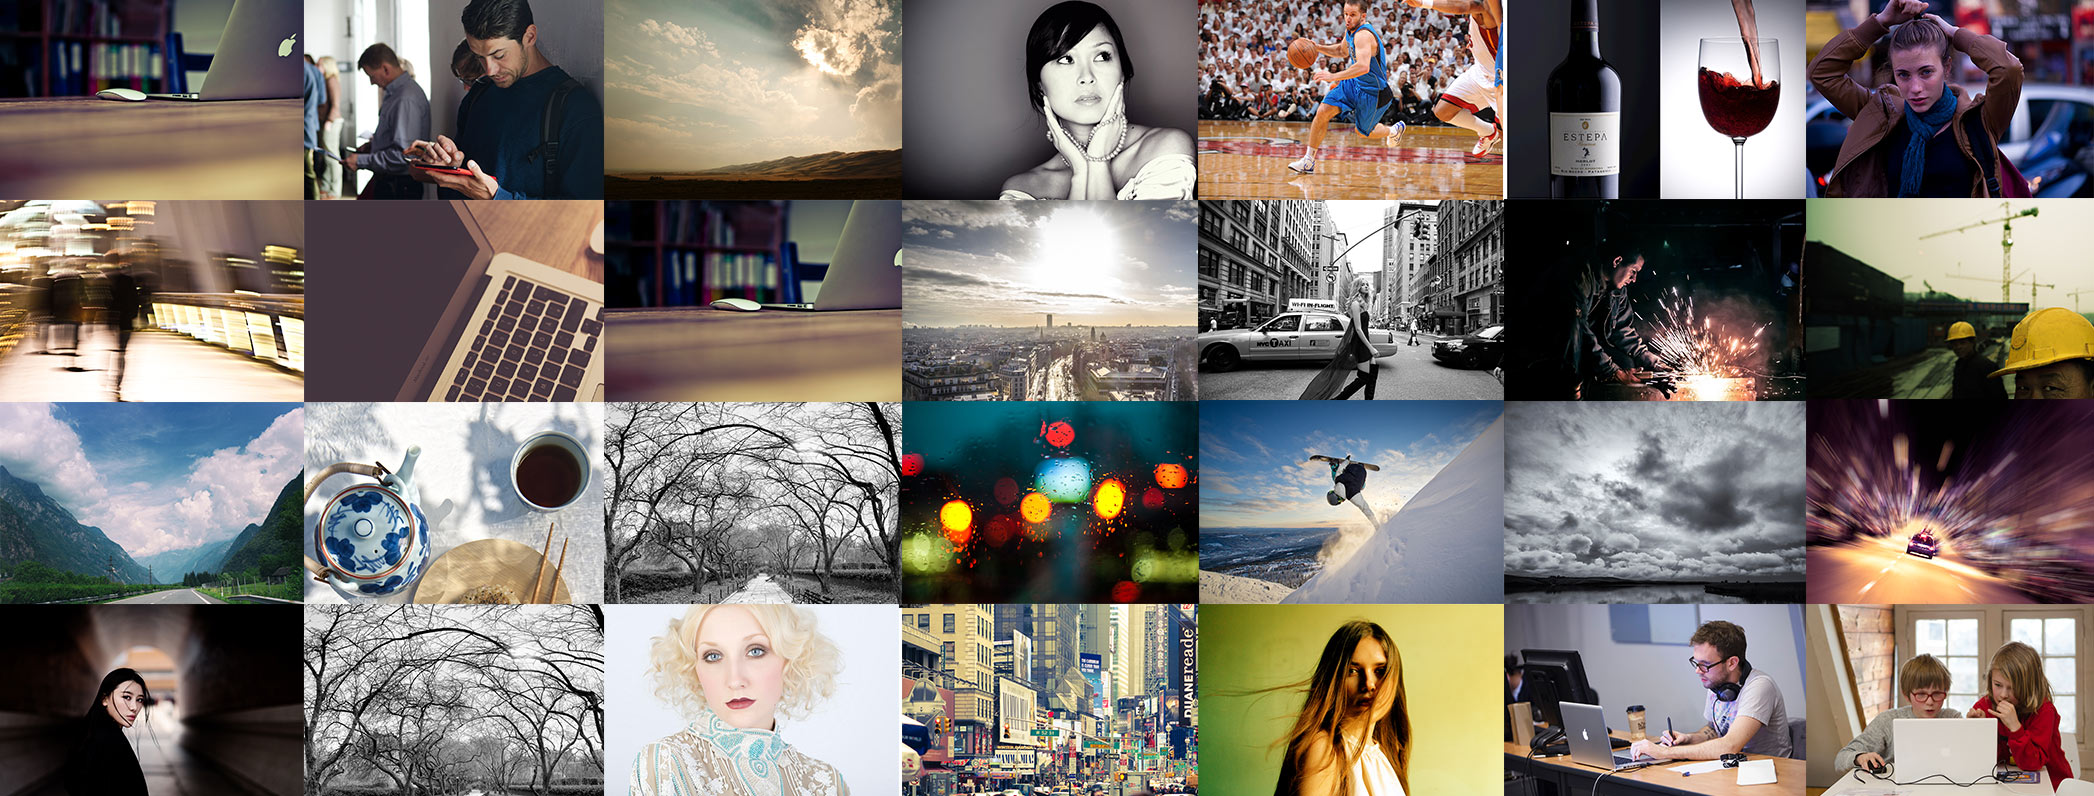
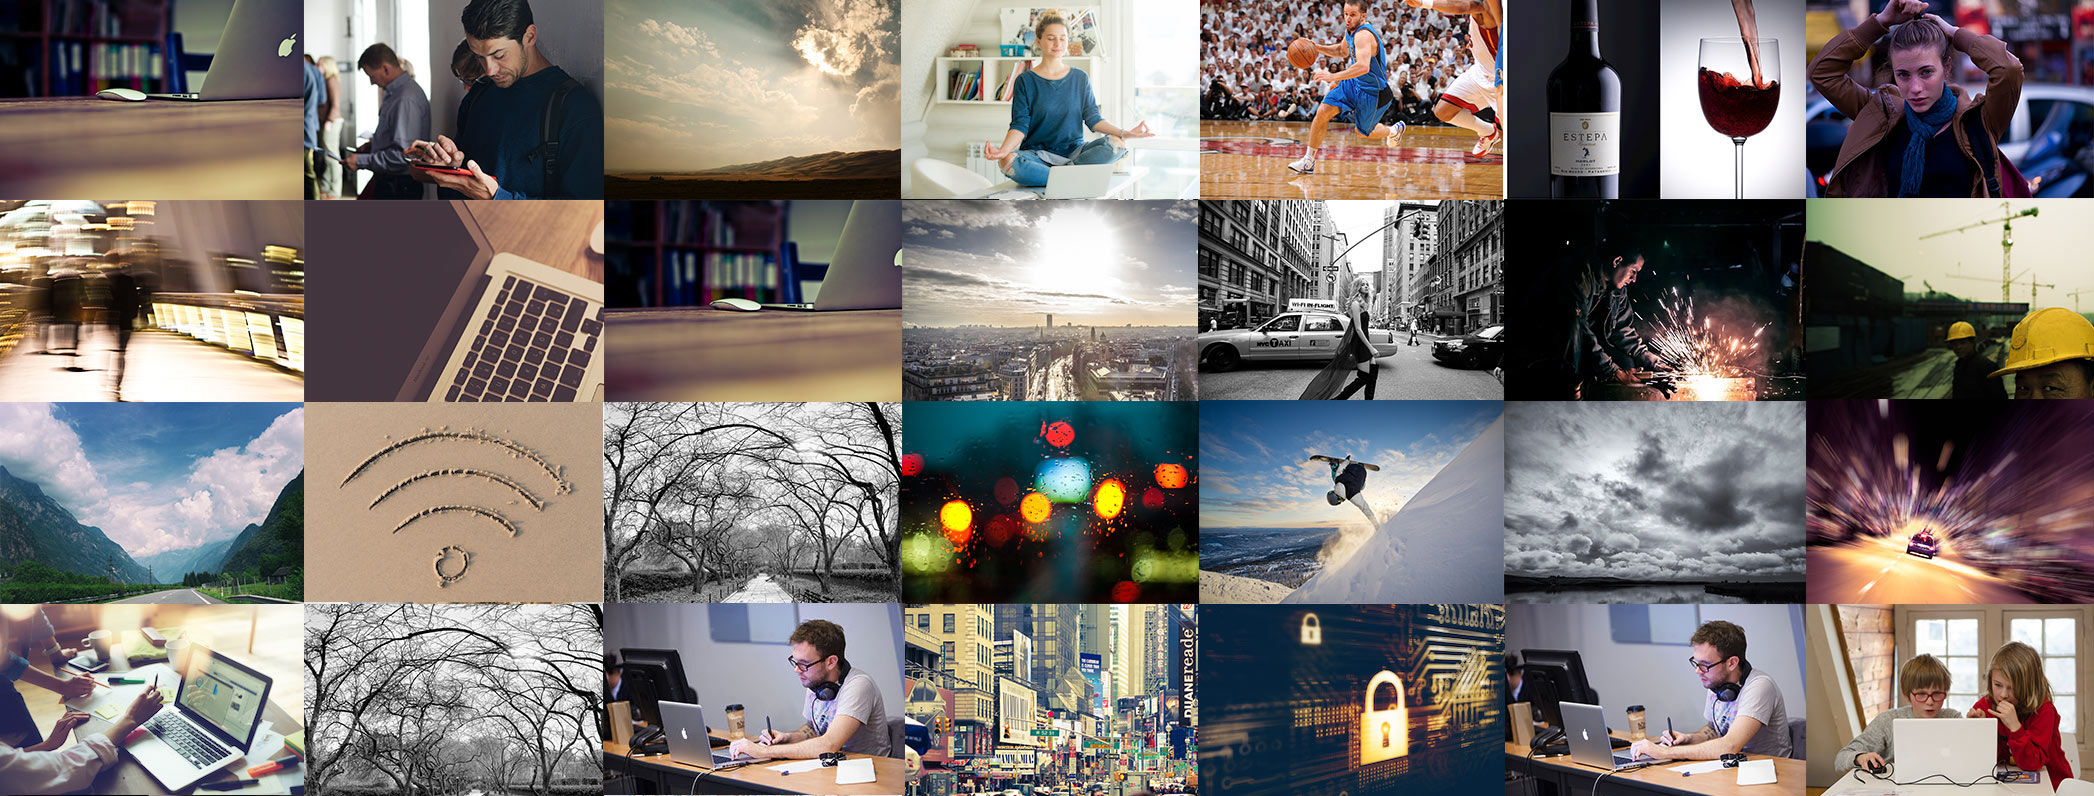
Improve content

Changed region(s): [[0.0, 0.4824, 0.4346, 1.0], [0.5587, 0.7538, 0.745, 1.0], [0.4035, 0.0, 0.5898, 0.2714]]

diff --git a/themes/hugo-universal-theme/static/css/custom.css b/themes/hugo-universal-theme/static/css/custom.css
@@ -8,3 +8,31 @@
 .box-simple {
   min-height: 230px;
 }
+
+table {
+  border: 2px solid #FFFFFF;
+  width: 100%;
+  text-align: left;
+  border-collapse: collapse;
+}
+table td, table th {
+  border: 1px solid #FFFFFF;
+  padding: 3px 4px;
+}
+table tr:nth-child(even) {
+  background: #EBEBEB;
+}
+table thead {
+  background: #FFFFFF;
+  border-bottom: 4px solid #333333;
+}
+table thead th {
+  font-weight: bold;
+  color: #333333;
+  text-align: left;
+}
+table tfoot {
+  font-weight: bold;
+  color: #333333;
+  border-top: 4px solid #333333;
+}

diff --git a/content/faq.es.md b/content/faq.es.md
@@ -1,43 +1,49 @@
 +++
-title = "FAQ"
-description = "Frequently asked questions"
+title = "Preguntas Frequentes"
+description = "Preguntas Frequentes"
 keywords = ["FAQ","How do I","questions","what if"]
 +++
 
-Pellentesque habitant morbi tristique senectus et netus et malesuada fames ac turpis egestas. Vestibulum tortor quam, feugiat vitae, ultricies eget, tempor sit amet, ante. Donec eu libero sit amet quam egestas semper. Aenean ultricies mi vitae est. Mauris placerat eleifend leo.
+## 0. ¿En cuales areas de Costa Rica ofrecen sus servicios?
 
-## 1. WHAT TO DO IF I HAVE STILL NOT RECEIVED THE ORDER?
+Actualmente ofrecemos nuestros servicios a domicilio dentro del gran area metropolitana. Contactenos tiene si requiere los servicios en otras areas del país.
 
-Pellentesque habitant morbi tristique senectus et netus et malesuada fames ac turpis egestas. Vestibulum tortor quam, feugiat vitae, ultricies eget, tempor sit amet, ante. Donec eu libero sit amet quam egestas semper. Aenean ultricies mi vitae est. Mauris placerat eleifend leo.
+## 1. ¿Como solicito una visita a domicilio?
 
-* Lorem ipsum dolor sit amet, consectetuer adipiscing elit.
-* Aliquam tincidunt mauris eu risus.
-* Vestibulum auctor dapibus neque.
+[Contactenos](/contact/) para concertar una cita. En base a la información que nos brinde, valoraremos el tiempo requerido para
+la visita, y le daremos una cotización de los costos. Una vez que su cita sea calendarizada, le mandaremos una confirmación por correo electrónico.
 
-## 2. WHAT ARE THE POSTAL RATES?
+## 2. Yo trabajo todo el día, pero me gustaria estar allí cuando realizen un diagnostico u instalación ¿Pueden visitarme fuera de horas de oficina?
 
-Anim pariatur cliche reprehenderit, enim eiusmod high life accusamus terry richardson ad squid. 3 wolf moon officia aute, non cupidatat skateboard dolor brunch. Food truck quinoa nesciunt laborum eiusmod. Brunch 3 wolf moon tempor, sunt aliqua put a bird on it squid single-origin coffee nulla assumenda shoreditch et. Nihil anim keffiyeh helvetica, craft beer labore wes anderson cred nesciunt sapiente ea proident. Ad vegan excepteur butcher vice lomo. Leggings occaecat craft beer farm-to-table, raw denim aesthetic synth nesciunt you probably haven't heard of them accusamus labore sustainable VHS.
+Si! Nosotros podemos concertar citas en hora de la noche, o fines de semana. De hecho es nuestra preferencia que el cliente se
+encuentre en la casa, para proveerle la explicación y asesoria adecuada.
 
-## 3. DO YOU SEND OVERSEAS?
+## 3. ¿Cuales son sus tarifas?
 
-Anim pariatur cliche reprehenderit, enim eiusmod high life accusamus terry richardson ad squid. 3 wolf moon officia aute, non cupidatat skateboard dolor brunch. Food truck quinoa nesciunt laborum eiusmod. Brunch 3 wolf moon tempor, sunt aliqua put a bird on it squid single-origin coffee nulla assumenda shoreditch et. Nihil anim keffiyeh helvetica, craft beer labore wes anderson cred nesciunt sapiente ea proident. Ad vegan excepteur butcher vice lomo. Leggings occaecat craft beer farm-to-table, raw denim aesthetic synth nesciunt you probably haven't heard of them accusamus labore sustainable VHS.
+Las tarifas actuales son:
 
-## 4. WHY ARE YOU MORE EXPENSIVE THAN OTHERS?
+| Servicio                                                | Tarifa (USD) | Observaciones       |
+| ------------------------------------------------------- |:------------:| ------------------- |
+| Visita de diagnóstico (area metropolitana, 30 minutos)  |          $30 | No se cobra si se realiza servicio de mantenimiento en la misma visita  |
+| Mantenimiento o instalación de red (menos de 1 hora)    |          $70 |  |
+| Mantenimiento o instalación de red (hora extra por encima de 1h)  |         $50 |  |
 
-Pellentesque habitant morbi tristique senectus et netus et malesuada fames ac turpis egestas. Vestibulum tortor quam, feugiat vitae, ultricies eget, tempor sit amet, ante. Donec eu libero sit amet quam egestas semper. Aenean ultricies mi vitae est. Mauris placerat eleifend leo.
+<br>
 
-* Lorem ipsum dolor sit amet, consectetuer adipiscing elit.
-* Aliquam tincidunt mauris eu risus.
-* Vestibulum auctor dapibus neque.
+Antes de realizar cualquier tarea de mantenimiento o instalación se brindará el
+precio por el mismo, basado en la tabla anterior, y ese será el costo final aun si toma más tiempo del anticipado.
 
-## 5. ANOTHER IMPORTANT QUESTION
+## 4. ¿Ustedes venden equipo de redes?
 
-Pellentesque habitant morbi tristique senectus et netus et malesuada fames ac turpis egestas. Vestibulum tortor quam, feugiat vitae, ultricies eget, tempor sit amet, ante. Donec eu libero sit amet quam egestas semper. Aenean ultricies mi vitae est. Mauris placerat eleifend leo.
+Nosotros vendemos algunos equipos de redes para hogar especializados que no se consiguen en Costa Rica, por
+ejemplo soluciones WiFI de mesh. Para cualquier otro equipo requerido lo asesoraremos para conseguir
+el equipo adecuado en un distribuidor local.
 
-* Lorem ipsum dolor sit amet, consectetuer adipiscing elit.
-* Aliquam tincidunt mauris eu risus.
-* Vestibulum auctor dapibus neque.
+## 5. ¿Ustedes realizan cableado estructurado para casas?
+
+No ofrecemos el servicio de cableado estructurado, pero contamos con una red de contactos a la
+cual podemos referirlo para este tipo de servicios.
 
 ---
 
-> In case you haven't found the answer for your question please feel free to contact us, our customer support will be happy to help you.
+> En caso de que no haya encontrado la respuesta, favor contáctenos y estaremos felices de ayudarle.

diff --git a/content/why.es.md b/content/why.es.md
@@ -58,7 +58,7 @@ Nuestra empresa busca aportar a solucionar estos problemas desde dos perspectiva
 
   * Vender [servicios y productos](/how) a la medida del mercado costarricense que solucionen
     los problemas que mencionamos previamente.
-  * Educar sobre buenas prácticas mediante articulos en nuestro sitio web, de ser
+  * Educar sobre buenas prácticas mediante [articulos en nuestro sitio web](/blog), de ser
     posible contextualizados en nuestra realidad.
 
 <br>

diff --git a/content/blog/wifi_mesh.es.md b/content/blog/wifi_mesh.es.md
@@ -1,0 +1,10 @@
+---
+title: "Usando WiFi mesh para mejorar una red para hogar"
+date: 2017-12-27T06:57:19-06:00
+tags: ["WiFi", "MESH"]
+categories: ["WiFi"]
+banner: "img/iStock-623267038.jpg"
+draft: false
+---
+
+# Entendiendo como funciona el WiFi

diff --git a/content/blog/common_wifi_setup_mistakes.es.md b/content/blog/common_wifi_setup_mistakes.es.md
@@ -1,0 +1,10 @@
+---
+title: "Errores comunes al configurar un WiFi para hogar"
+date: 2017-12-27T06:57:19-06:00
+tags: ["WiFi"]
+categories: ["WiFi"]
+banner: "img/iStock-628318834.jpg"
+draft: false
+---
+
+# Entendiendo como funciona el WiFi

diff --git a/content/blog/secure_dns_setup.es.md b/content/blog/secure_dns_setup.es.md
@@ -14,3 +14,6 @@ draft: false
 
 
 # ¿Como puedo evitarlo?
+
+
+https://www.opendns.com/setupguide/#results

diff --git a/content/why.en.md b/content/why.en.md
@@ -3,4 +3,3 @@ title: "Why"
 date: 2017-12-27T16:47:51-06:00
 draft: true
 ---
-
